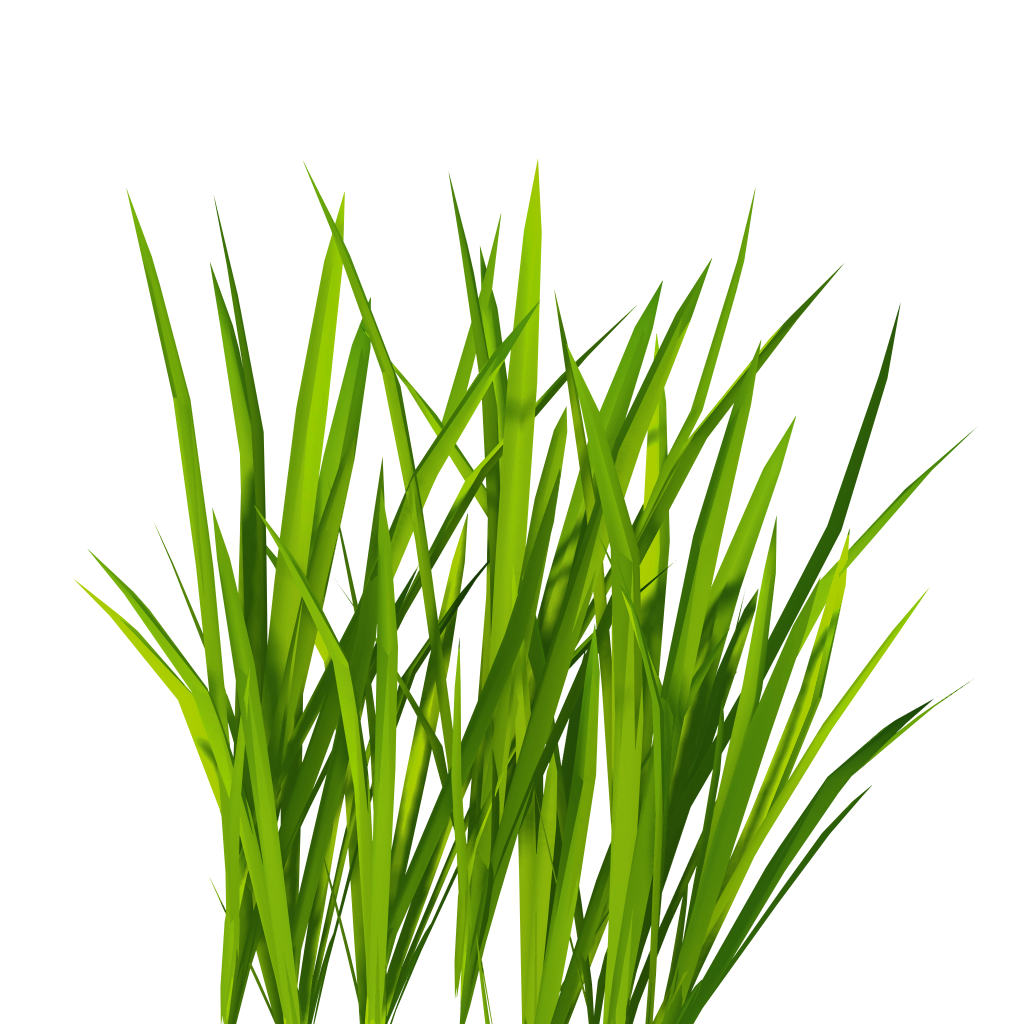
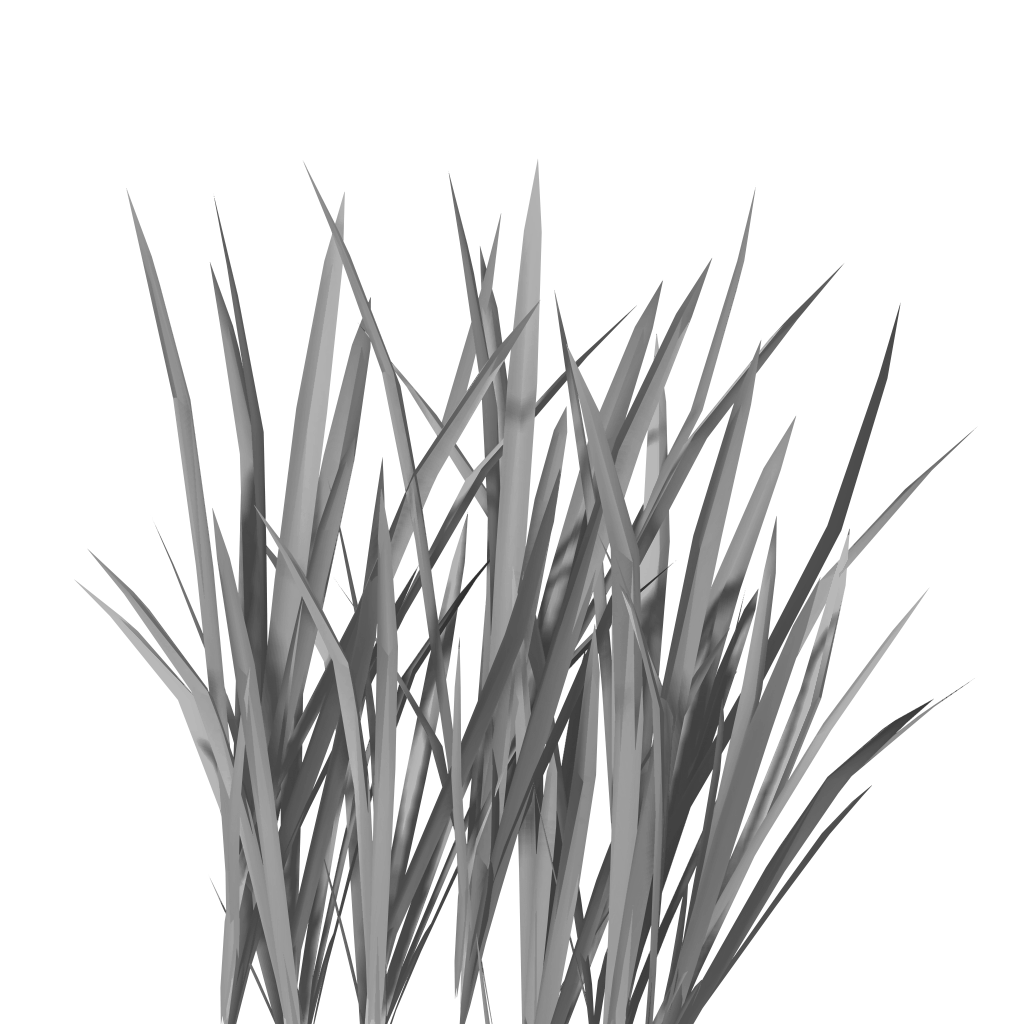
Teinte herbe selon alt
Ajouts des assets, à programmer dans le shader mtn

diff --git a/scenes_inf443/project/src/scene.cpp b/scenes_inf443/project/src/scene.cpp
@@ -60,7 +60,7 @@ void scene_structure::initialize()
 		float z = terrain_position[idx][2];
 		vec3 normal = terrain_normal[idx];
 		instance_positions[i] = {x,y,z};
-		instance_colors[i] = { std::abs(x/L),std::abs(y/L),1.f};
+		instance_colors[i] = { std::abs(x/L),std::abs(y/L),std::abs(z/L)};
 		instance_orientation[i] = normal;
 	}
 	grass.initialize_supplementary_data_on_gpu(instance_colors, /*location*/ 4, /*divisor: 1=per instance, 0=per vertex*/ 1);
